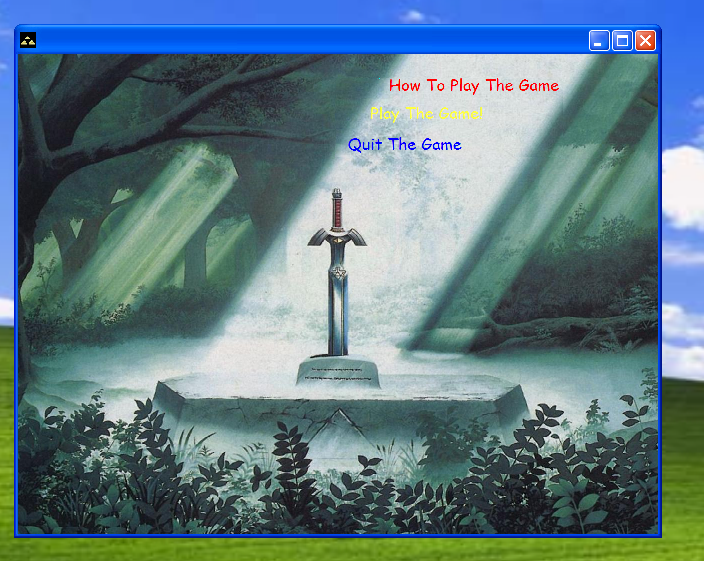
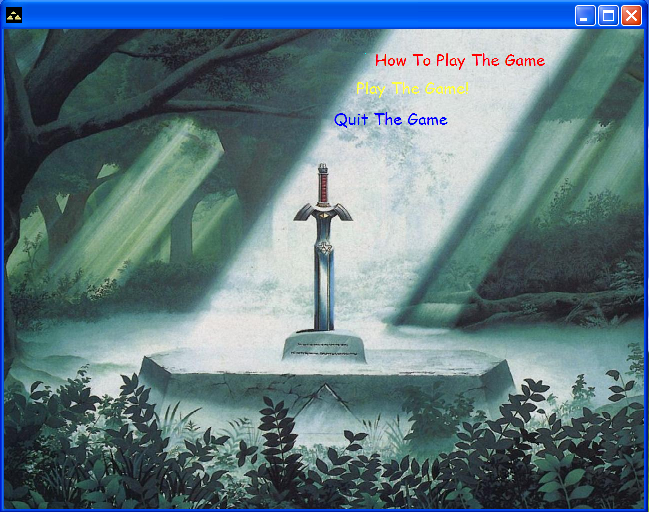
Updated readme, cropped screenshots.

diff --git a/README.md b/README.md
@@ -6,9 +6,7 @@
 These projects do not use current technology, reflect a good programming methodology or understanding, or use modern subject matter. I simply put thse on GitHub as a friendly reminder to myself of where I came from as well as a `trophy` of sorts to demonstrate how long computer programming has been an important part of my life. 
 
 ##Summary
-This repository is a collection of my homework, projects, and labs from my computer programming class in high school around 2008. These projects all use Game Maker 7.
-
-#Game Maker
+This repository is a collection of my homework, projects, and labs from my computer programming class in high school around 2008. These projects all use Game Maker 7. 
 
 Using Game Maker, I created four different games. Unfortunately, they were written in Game Maker 7 which won't run on modern operating systems and the games fail to import into newer versions of Game Maker Studio. In order for me to get these screenshots it was necessary for me to spin up a Windows XP VM and install an older version of Game Maker.
 
